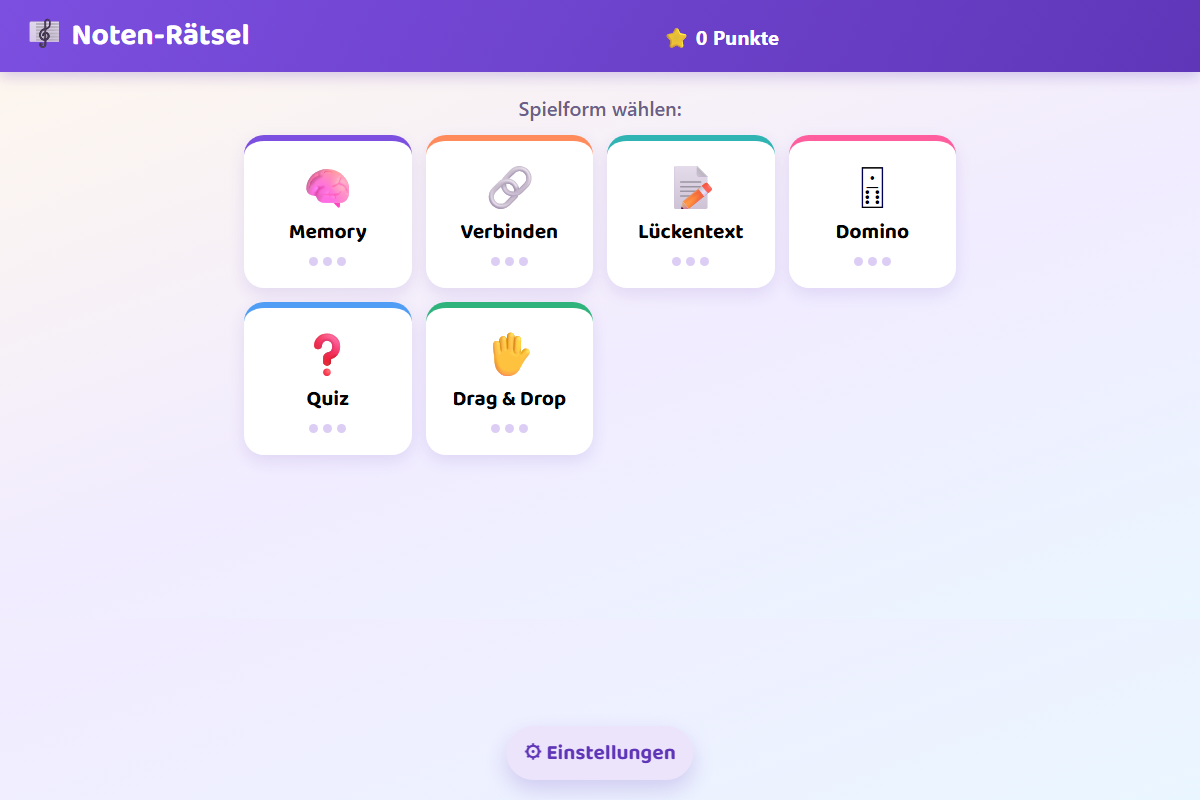
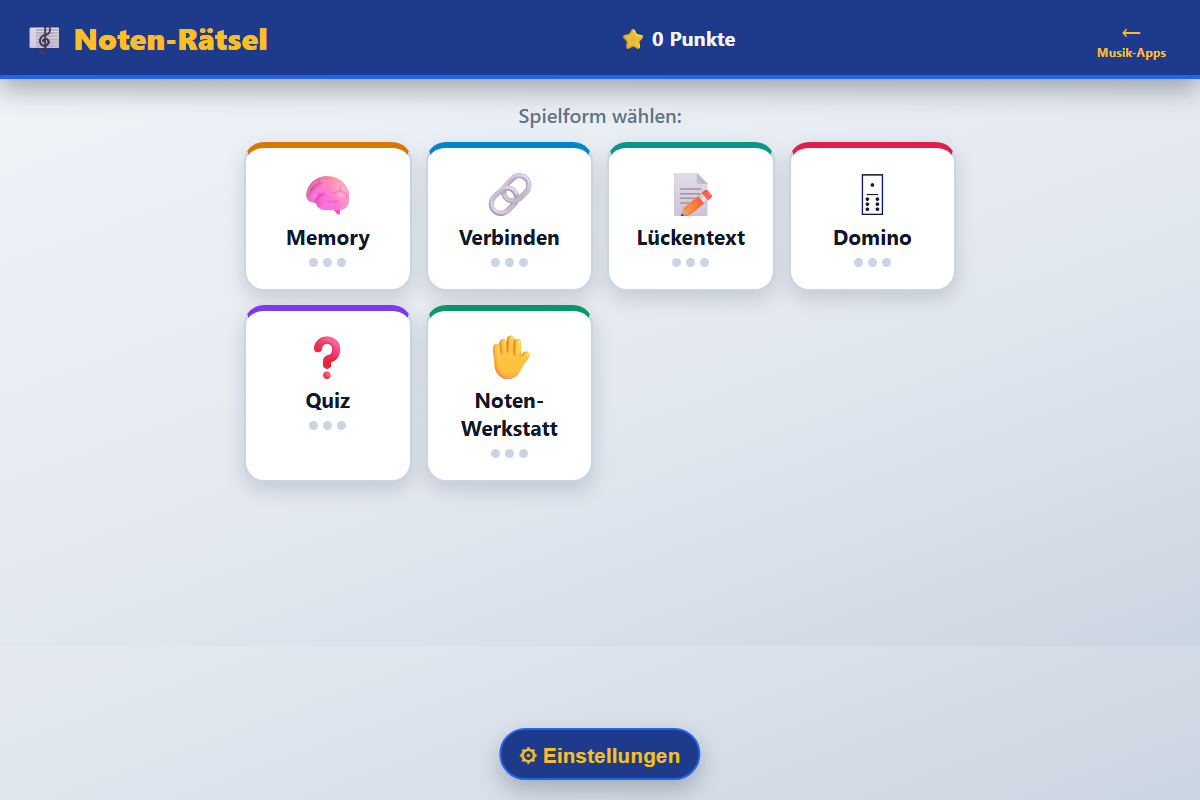
Design an die drei Apps angleichen, Screenshots aktualisieren
Nutzer-Feedback: Übersichtsseite wirkte nicht mehr "aus einem Guss" mit
den drei Apps (alte Screenshots, anderes Design). Angepasst:
- Gleiche helle Slate-/Amber-Palette + royalblaue Kopfleiste wie die drei
  Apps (:root-Variablen identisch übernommen), Impressum-Seite ebenso.
  Automatischer Hell-/Dunkelmodus entfernt, da die Apps selbst auch keinen
  mehr haben - sonst würde die Übersicht im Dunkelmodus wieder abweichen.
- Jede Karte bekommt einen farbigen Akzentstreifen (amber/sky/teal) wie
  die Format-/Level-Kacheln in den Apps.
- Alle drei Screenshots per Headless-Chrome neu von den LIVE-Apps
  aufgenommen (zeigen jetzt das aktuelle Design inkl. "← Musik-Apps"-Link).
- README: neue Konventions-Abschnitte für das gemeinsame Design und den
  "← Musik-Apps"-Zurücklink, damit künftige Apps sie automatisch
  übernehmen.

Changed region(s): [[0.0, 0.0, 1.0, 0.625], [0.4008, 0.5938, 1.0, 1.0]]

diff --git a/style.css b/style.css
@@ -1,21 +1,16 @@
 :root {
-  --ink: #1a1a1a;
-  --muted: #6b6b6b;
+  --bg-1: #f1f5f9;
+  --bg-2: #e2e8f0;
+  --bg-3: #1e3a8a;
+  --ink: #0f172a;
+  --ink-soft: #64748b;
+  --ink-on-dark: #f1f5f9;
   --paper: #ffffff;
-  --bg: #f5f4f2;
-  --line: #e2e0dc;
-  --accent: #2f6fed;
-}
-
-@media (prefers-color-scheme: dark) {
-  :root {
-    --ink: #f2f2f2;
-    --muted: #a8a8a8;
-    --paper: #1e1e1e;
-    --bg: #121212;
-    --line: #2c2c2c;
-    --accent: #6a9bff;
-  }
+  --line: #cbd5e1;
+  --border-strong: #94a3b8;
+  --line-dark: #2563eb;
+  --accent: #f59e0b;
+  --accent-light: #fbbf24;
 }
 
 * { box-sizing: border-box; }
@@ -23,41 +18,53 @@
 html, body {
   margin: 0;
   min-height: 100%;
-  background: var(--bg);
+  background: linear-gradient(160deg, var(--bg-1) 0%, var(--bg-2) 60%, #cbd5e1 100%);
   color: var(--ink);
-  font-family: -apple-system, "Segoe UI", Roboto, Helvetica, Arial, sans-serif;
+  font-family: -apple-system, BlinkMacSystemFont, "Segoe UI", Roboto, "Helvetica Neue", Arial, sans-serif;
 }
 
 body {
   display: flex;
   flex-direction: column;
   align-items: center;
-  padding: 48px 20px 64px;
+  padding: 0 20px 64px;
 }
 
-.page-header {
-  text-align: center;
-  margin-bottom: 40px;
+/* Gleiche dunkle "Toolbar"-Kopfleiste wie die drei Apps - direkter
+   visueller Anschluss: man landet auf einer Seite mit derselben dunklen
+   Leiste, die einen gleich danach in einer der Apps wiedererwartet. */
+.toolbar {
+  width: 100%;
+  display: flex;
+  align-items: center;
+  justify-content: center;
+  padding: 14px 24px;
+  background: var(--bg-3);
+  border-bottom: 4px solid var(--line-dark);
+  box-shadow: 0 10px 25px rgba(15, 23, 42, 0.35);
+  margin: 0 -20px;
 }
 
-.page-header h1 {
-  margin: 0 0 8px;
-  font-size: 1.9rem;
-  font-weight: 700;
+.toolbar h1 {
+  margin: 0;
+  font-size: 1.6rem;
+  font-weight: 800;
+  color: var(--accent-light);
   letter-spacing: -0.01em;
 }
 
-.page-header p {
-  margin: 0;
-  color: var(--muted);
+.page-subtitle {
+  margin: 20px 0 32px;
+  color: var(--ink-soft);
   font-size: 1rem;
+  text-align: center;
 }
 
 .grid {
   width: 100%;
   max-width: 900px;
   display: grid;
-  grid-template-columns: repeat(auto-fit, minmax(280px, 1fr));
+  grid-template-columns: repeat(auto-fit, minmax(260px, 1fr));
   gap: 24px;
 }
 
@@ -65,18 +72,24 @@ body {
   display: flex;
   flex-direction: column;
   background: var(--paper);
-  border: 1px solid var(--line);
-  border-radius: 16px;
+  border: 2px solid var(--line);
+  border-top: 6px solid var(--accent);
+  border-radius: 18px;
   overflow: hidden;
   text-decoration: none;
   color: var(--ink);
+  box-shadow: 0 8px 20px rgba(15, 23, 42, 0.15);
   transition: transform 0.15s ease, box-shadow 0.15s ease;
 }
 
+.card-accent-1 { border-top-color: #d97706; }
+.card-accent-2 { border-top-color: #0284c7; }
+.card-accent-3 { border-top-color: #0d9488; }
+
 .card:hover,
 .card:focus-visible {
-  transform: translateY(-3px);
-  box-shadow: 0 12px 28px rgba(0, 0, 0, 0.12);
+  transform: translateY(-4px);
+  box-shadow: 0 14px 28px rgba(15, 23, 42, 0.22);
 }
 
 .card:focus-visible {
@@ -91,8 +104,8 @@ body {
 .card-thumb {
   display: block;
   aspect-ratio: 3 / 2;
-  background: var(--bg);
-  border-bottom: 1px solid var(--line);
+  background: var(--bg-1);
+  border-bottom: 2px solid var(--line);
   overflow: hidden;
 }
 
@@ -105,9 +118,9 @@ body {
 }
 
 .card-title {
-  padding: 18px 20px;
-  font-size: 1.15rem;
-  font-weight: 600;
+  padding: 16px 20px;
+  font-size: 1.1rem;
+  font-weight: 700;
   text-align: center;
 }
 
@@ -117,13 +130,12 @@ body {
 }
 
 .page-footer a {
-  color: var(--muted);
+  color: var(--ink-soft);
   text-decoration: none;
 }
 
 .page-footer a:hover { text-decoration: underline; }
 
 @media (max-width: 480px) {
-  .page-header h1 { font-size: 1.6rem; }
-  body { padding: 36px 16px 48px; }
+  .toolbar h1 { font-size: 1.4rem; }
 }

diff --git a/index.html b/index.html
@@ -4,31 +4,32 @@
 <meta charset="UTF-8">
 <meta name="viewport" content="width=device-width, initial-scale=1.0">
 <title>Musik-Apps</title>
-<link rel="stylesheet" href="style.css?v=1">
+<link rel="stylesheet" href="style.css?v=2">
 </head>
 <body>
 
-<header class="page-header">
+<header class="toolbar">
   <h1>🎵 Musik-Apps</h1>
-  <p>Drei Werkzeuge für den Musikunterricht</p>
 </header>
 
+<p class="page-subtitle">Drei Werkzeuge für den Musikunterricht</p>
+
 <main class="grid">
-  <a class="card" href="https://mitlaeuferfotografie.github.io/Rhythmus-Generator/">
+  <a class="card card-accent-1" href="https://mitlaeuferfotografie.github.io/Rhythmus-Generator/">
     <span class="card-thumb">
       <img src="assets/rhythmus-generator.png" alt="Vorschau der App Rhythmus-Generator" loading="lazy">
     </span>
     <span class="card-title">Rhythmus-Generator</span>
   </a>
 
-  <a class="card" href="https://mitlaeuferfotografie.github.io/Rhythmus-Trainer/">
+  <a class="card card-accent-2" href="https://mitlaeuferfotografie.github.io/Rhythmus-Trainer/">
     <span class="card-thumb">
       <img src="assets/rhythmus-trainer.png" alt="Vorschau der App Rhythmus-Trainer" loading="lazy">
     </span>
     <span class="card-title">Rhythmus-Trainer</span>
   </a>
 
-  <a class="card" href="https://mitlaeuferfotografie.github.io/Noten-Raetsel/">
+  <a class="card card-accent-3" href="https://mitlaeuferfotografie.github.io/Noten-Raetsel/">
     <span class="card-thumb">
       <img src="assets/noten-raetsel.png" alt="Vorschau der App Noten-Rätsel" loading="lazy">
     </span>

diff --git a/impressum.html b/impressum.html
@@ -4,34 +4,39 @@
 <meta charset="UTF-8">
 <meta name="viewport" content="width=device-width, initial-scale=1.0">
 <title>Impressum &amp; Datenschutz - Musik-Apps</title>
-<link rel="stylesheet" href="style.css?v=1">
+<link rel="stylesheet" href="style.css?v=2">
 <style>
-  body { align-items: stretch; padding: 40px 20px 64px; }
+  body { align-items: stretch; padding: 0 20px 64px; }
   .legal {
     width: 100%;
     max-width: 640px;
-    margin: 0 auto;
+    margin: 40px auto 0;
     line-height: 1.55;
   }
   .legal .back-link {
     display: inline-block;
     margin-bottom: 28px;
-    color: var(--accent);
+    color: var(--accent-light);
     text-decoration: none;
     font-size: 0.95rem;
+    font-weight: 700;
   }
   .legal .back-link:hover { text-decoration: underline; }
   .legal h1 { font-size: 1.6rem; margin: 0 0 4px; }
   .legal h2 { font-size: 1.3rem; margin: 40px 0 4px; }
   .legal p { margin: 10px 0; }
-  .legal .meta { color: var(--muted); font-size: 0.9rem; margin-bottom: 24px; }
+  .legal .meta { color: var(--ink-soft); font-size: 0.9rem; margin-bottom: 24px; }
   .legal strong { display: block; margin-top: 18px; }
   .legal address { font-style: normal; }
-  .legal a { color: var(--accent); }
+  .legal a { color: var(--line-dark); }
   .legal hr { border: none; border-top: 1px solid var(--line); margin: 36px 0; }
 </style>
 </head>
 <body>
+
+<header class="toolbar">
+  <h1>🎵 Musik-Apps</h1>
+</header>
 
 <div class="legal">
   <a class="back-link" href="index.html">← Zurück zur Übersicht</a>

diff --git a/README.md b/README.md
@@ -11,13 +11,17 @@ anklickbare Karten (Screenshot + Titel), die direkt zur jeweiligen App führen.
   Wissensquiz zu Notenwerten mit sechs Spielformaten.
 
 Reines Vanilla HTML/CSS, kein Build-Schritt, kein Framework - passt sich
-responsiv jeder Bildschirmgröße an (ein Spalte auf schmalen Bildschirmen,
-zwei Spalten ab ca. 600px) und unterstützt automatisch Hell-/Dunkelmodus
-(`prefers-color-scheme`).
+responsiv jeder Bildschirmgröße an (eine Spalte auf schmalen Bildschirmen,
+mehrere Spalten ab ca. 600px). Bewusst KEIN automatischer Hell-/Dunkelmodus
+mehr (anders als die ursprüngliche Fassung) - dieselbe helle Slate-/Amber-
+Palette + royalblaue Kopfleiste wie die drei verlinkten Apps selbst, damit
+der Übergang von der Übersicht in eine App sich nahtlos anfühlt (siehe
+`:root`-Variablen in style.css, identisch zu denen der drei App-Repos).
 
 Die Screenshots in `assets/` sind reale, per Headless-Chrome erzeugte
-Aufnahmen der jeweiligen App (Stand: 2026-09-23) - bei größeren optischen
-Änderungen an einer der drei Apps sollten sie aktualisiert werden.
+Aufnahmen der jeweiligen LIVE-App (Stand: 2026-09-24) - bei größeren
+optischen Änderungen an einer der drei Apps sollten sie aktualisiert
+werden (Befehl siehe Git-Historie dieser Datei/`CLAUDE.md`).
 
 ## Lokal starten
 
@@ -59,3 +63,25 @@ Zustand der App aus in maximal zwei Klicks erreichbar, klar mit
 
 Neue Apps bekommen diesen Menüpunkt von Anfang an, ohne dass es jedes Mal
 extra erwähnt werden muss.
+
+## Zurück-Link zur Übersicht (verbindliche Konvention)
+
+Jede der drei Apps hat oben RECHTS in der Toolbar einen dauerhaft
+sichtbaren Link zurück zu dieser Übersichtsseite: Pfeil (←) mit
+"Musik-Apps" klein darunter, Klasse `.toolbar-home-link`
+(`margin-left: auto`, damit er sich unabhängig vom Rest des Toolbar-
+Inhalts an den rechten Rand schiebt). Bewusst RECHTS statt links: links
+sitzen in mehreren Apps bereits In-App-"Zurück"-Knöpfe (z. B. "Level
+wählen", "Zurück" zwischen Hub/Format), ein zweiter Zurück-Pfeil an
+derselben Stelle hätte Kinder verwirrt.
+
+```html
+<a class="toolbar-home-link" href="https://mitlaeuferfotografie.github.io/Musik-Apps/" title="Zurück zur Musik-Apps-Übersicht">
+  <span class="toolbar-home-arrow">←</span>
+  <span class="toolbar-home-label">Musik-Apps</span>
+</a>
+```
+
+Neue Apps übernehmen dieses Snippet (samt `.toolbar-home-link`-CSS aus
+einer der drei bestehenden Apps) als letztes Kind der Toolbar, ohne dass
+es jedes Mal extra erwähnt werden muss.
